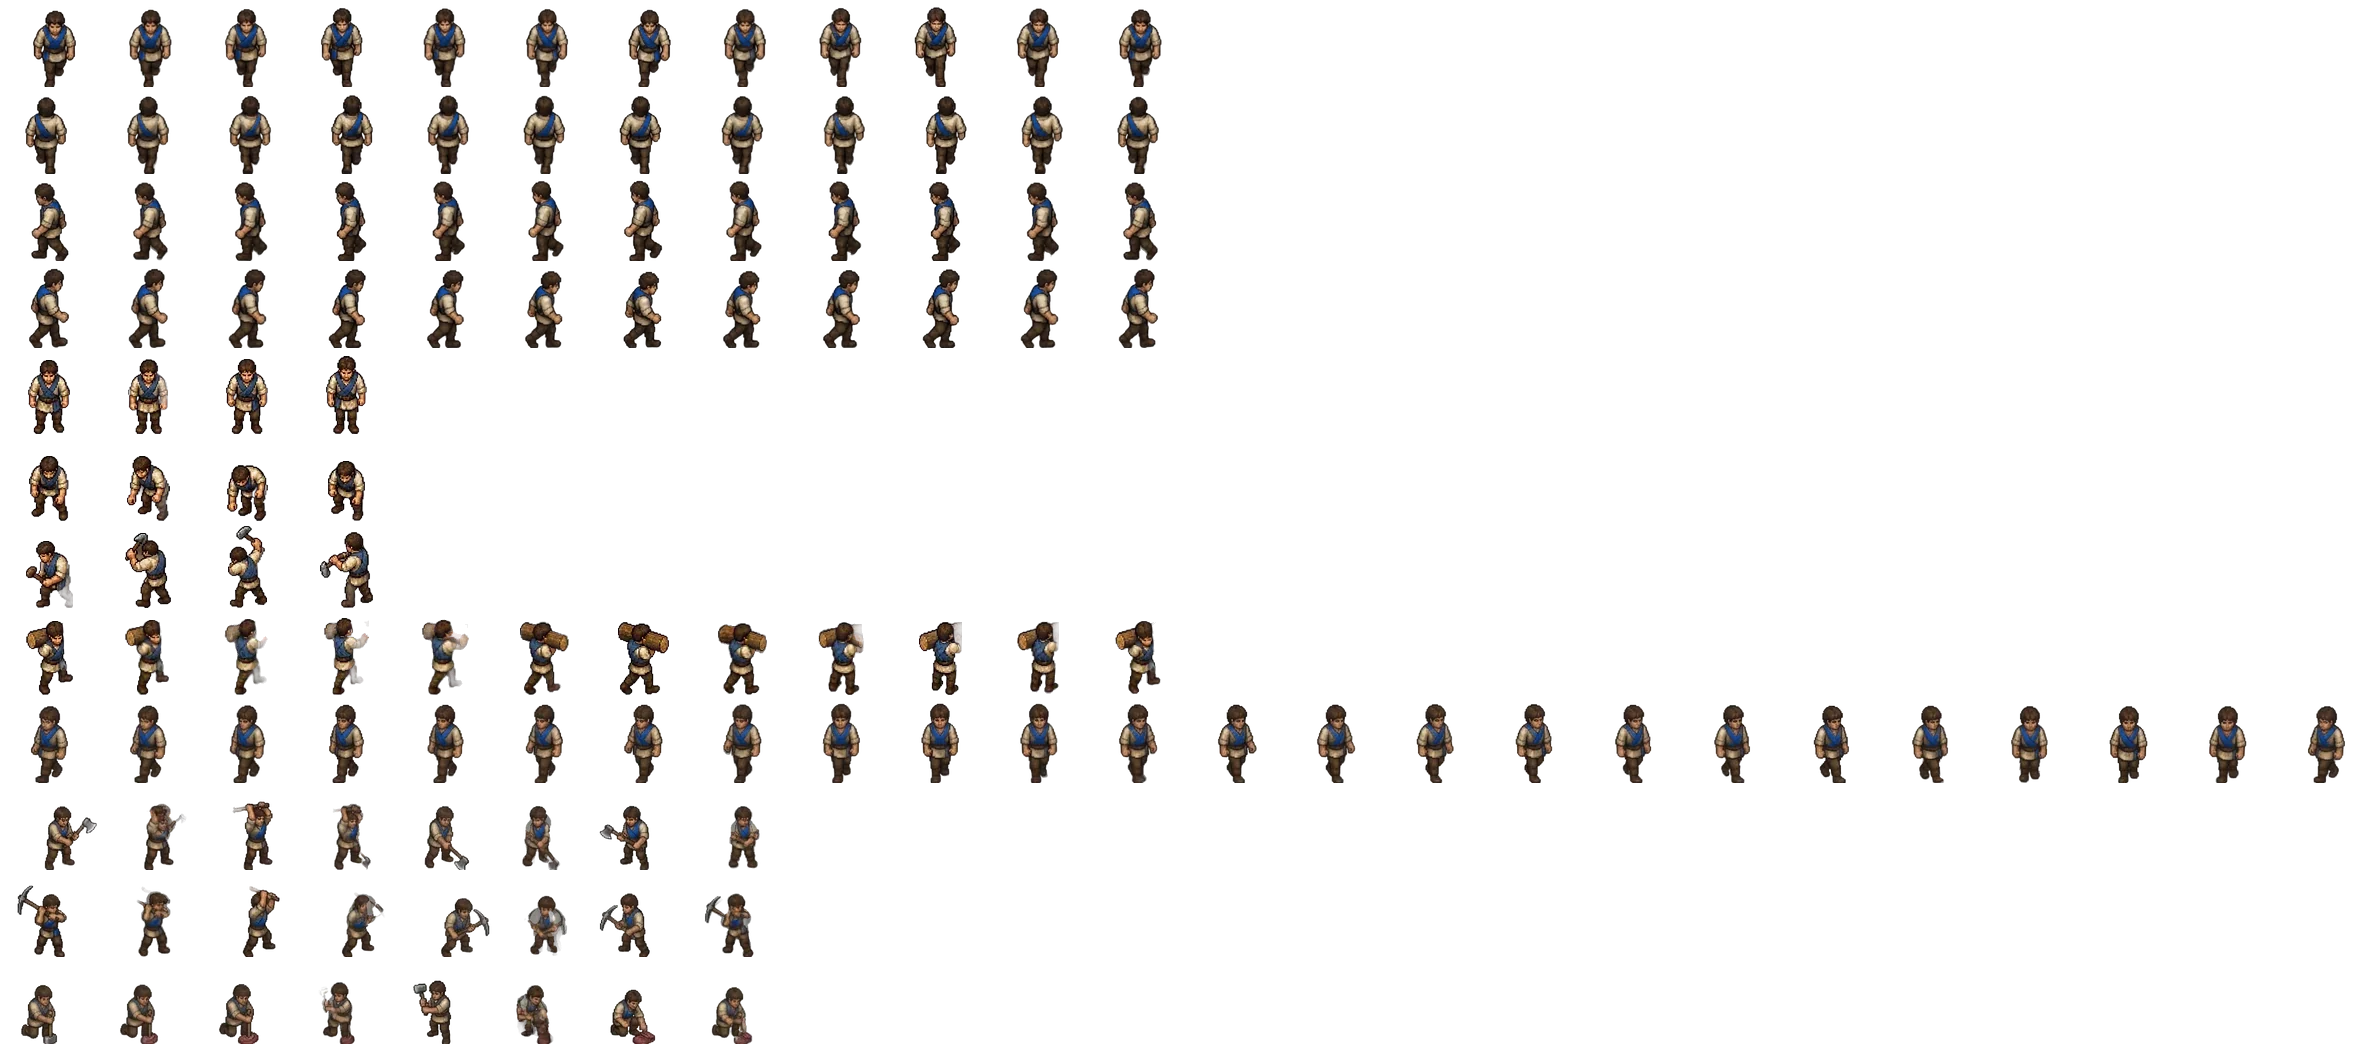
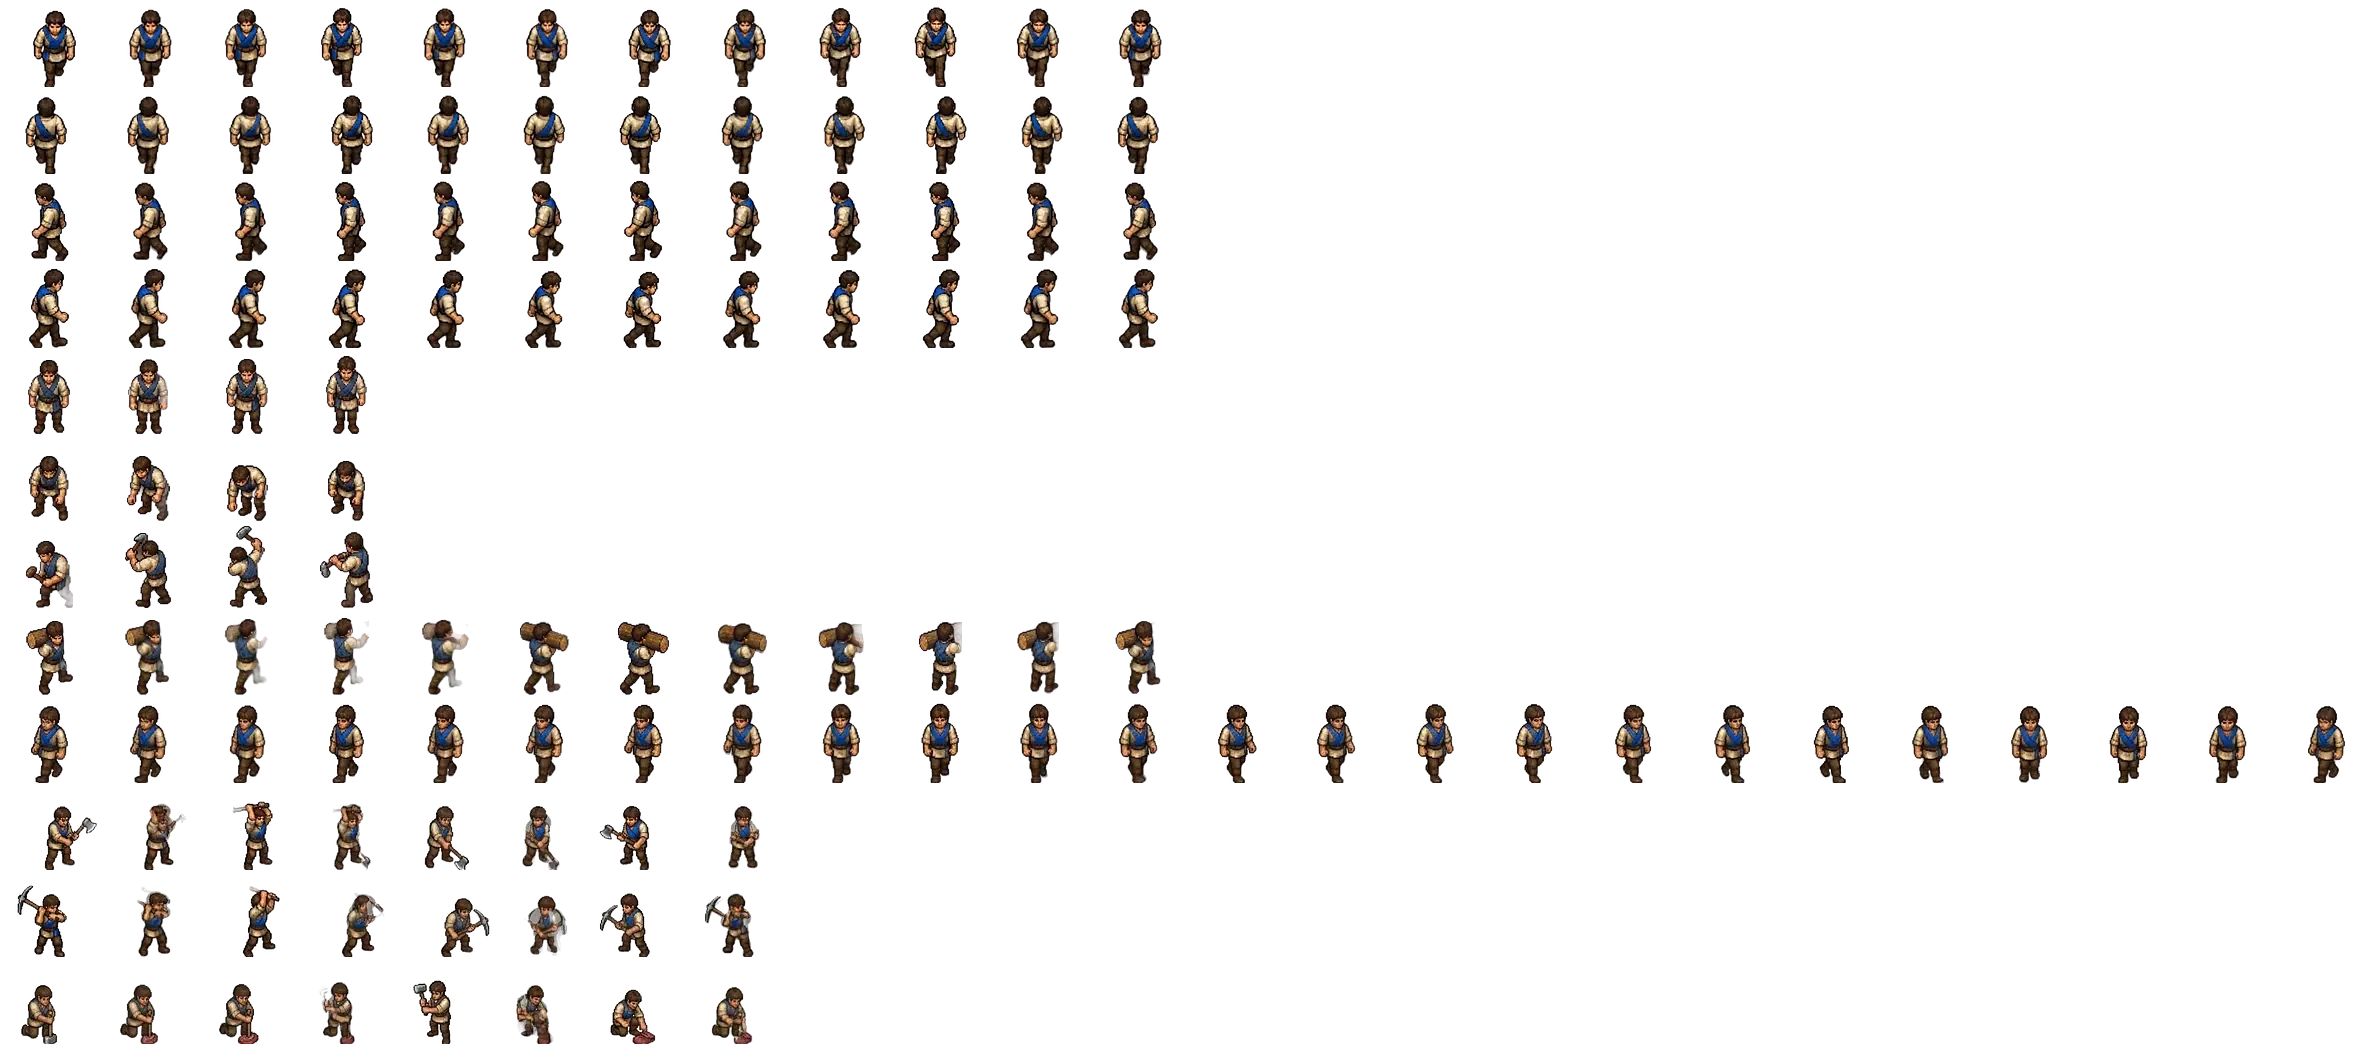
Les rangées Gemini du villageois retrouvent la netteté des autres
Mesurée par la variance du laplacien, la netteté des rangées venues des
planches Gemini (marches cardinales, nord-est, outils) valait la moitié de
celle des rangées d'origine : elles n'avaient pas reçu le « peps » (masque
flou, saturation, contraste) appliqué aux autres illustrations. Le même
traitement, case par case, les ramène au même niveau.

Claude-Session: https://claude.ai/code/session_017pymgmNLfxNmwW4ryo7pgs

diff --git a/jeu/sw.js b/jeu/sw.js
@@ -1,5 +1,5 @@
 // Service worker : le jeu reste jouable hors ligne une fois chargé.
-const CACHE = 'age-empires-mobile-v34';
+const CACHE = 'age-empires-mobile-v35';
 const ASSETS = [
   './',
   './index.html',

diff --git a/jeu/assets/SOURCES.md b/jeu/assets/SOURCES.md
@@ -156,7 +156,7 @@ couleurs du joueur tient ce rôle.
 Chaque image est posée au bas de sa case, centrée ; un villageois debout fait
 **40 px monde** (le chevalier : 44), atlas à 2× avec le même peps que les
 bâtiments : 440×688 avant interpolation (cases de 55×86), **99 Ko** ; 1320×688 et
-**226 Ko** avec les pas intermédiaires ; 2376×1044 et **324 Ko** avec le nord-est et les outils, **260 Ko** une fois les quatre marches cardinales reprises de la troisième planche. La couleur d'équipe est celle du chevalier —
+**226 Ko** avec les pas intermédiaires ; 2376×1044 et **324 Ko** avec le nord-est et les outils, **278 Ko** une fois les quatre marches cardinales reprises de la troisième planche et les rangées Gemini passées au peps. La couleur d'équipe est celle du chevalier —
 l'écharpe bleue bascule, la peau, le cuir et la chemise restent ; le test le
 vérifie sur 14 440 pixels de peau.
 
@@ -208,6 +208,15 @@ les pieds patineraient. Chaque rangée est ramenée à la stature de l'ancienne
 marche sud (80 px dans l'atlas), la planche dessinant le dos un peu plus grand
 que la face ; l'écharpe est ravivée comme pour la planche précédente. Le repos,
 les poses et le nord-est ne bougent pas (`fabrique-villageois-v5.py`).
+
+Les images Gemini sont **moins nettes** que celles de la première planche :
+mesurée par la variance du laplacien sur les images clés, la netteté des
+rangées Gemini valait la moitié de celle des rangées d'origine (2 300 à 3 000
+contre 4 700 à 6 800), qui avaient reçu le « peps » des autres illustrations
+(masque flou, saturation, contraste — voir plus bas) alors que les rangées
+Gemini ne l'avaient pas eu. Le même traitement, appliqué case par case aux
+rangées Gemini (les quatre marches cardinales, le nord-est et les trois outils),
+les ramène au niveau des autres (5 700 à 7 400) ; l'atlas pèse 278 Ko.
 
 Le découpage ne dépend plus de la mise en page de la planche
 (`decoupe-planche.py`) : les cartouches de légende se reconnaissent à leurs

diff --git a/jeu/README.md b/jeu/README.md
@@ -363,7 +363,7 @@ point n'est pas joignable du tout, n'importe quel côté fait l'affaire avant de
 condamner la case. Le point choisi est sauvegardé avec l'unité : une partie
 reprise le garde.
 
-**Le villageois travaille pour de vrai** (`villageois.webp`, 260 Ko) : cinq
+**Le villageois travaille pour de vrai** (`villageois.webp`, 278 Ko) : cinq
 orientations de marche dessinées (le nord-ouest est le nord-est en miroir), et sept poses — repos,
 cueillir, construire, porter. La pose suit l'état de la simulation : devant des
 baies ou une ferme il cueille, devant un arbre, un gisement, un chantier ou un
